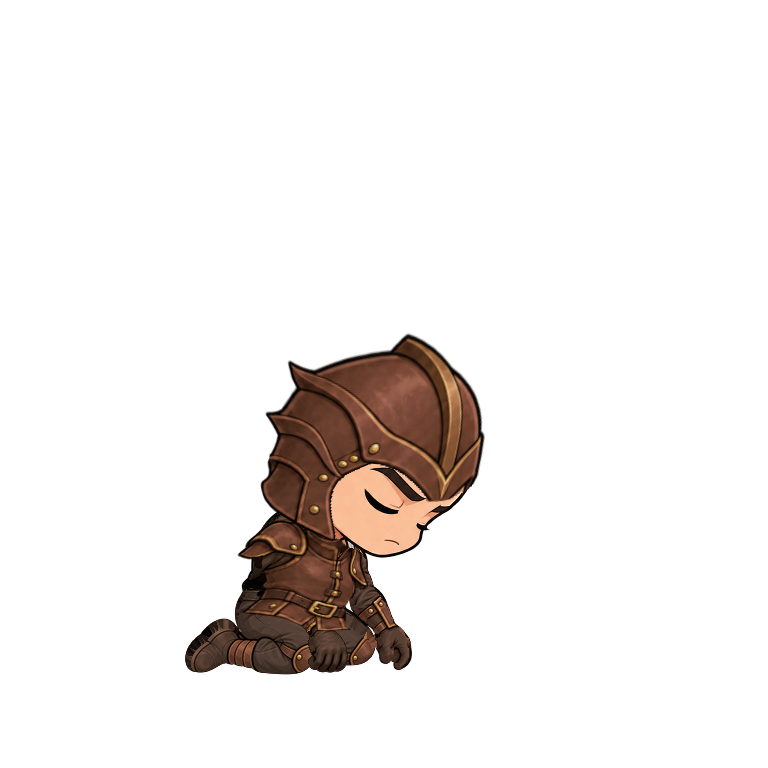
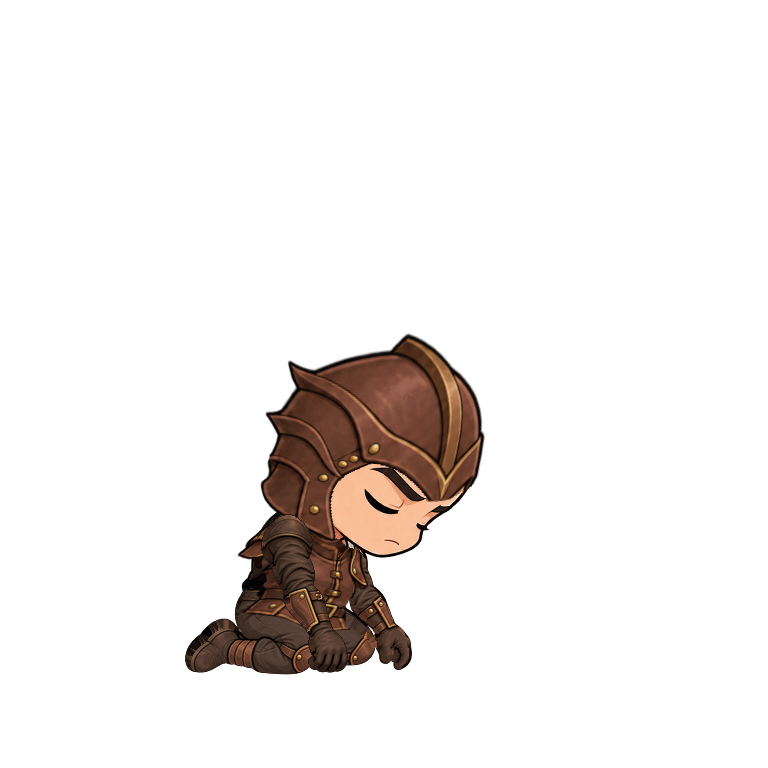
art(g16): bring Death_02 right arm in front of chest armor

Changed region(s): [[0.3438, 0.6562, 0.4375, 0.8438]]

diff --git a/docs/g16-leather-g2/g3/build_current_qa.py b/docs/g16-leather-g2/g3/build_current_qa.py
@@ -35,10 +35,14 @@ for f in frames:
     else:
         order=['coverage_underlay','legs_boots','arm_rear','arm_front','torso_armor','helmet','sword']
         hand[f]={'sourceLayer':'arm_rear','crop':[0,493+{'idle_01':0,'idle_02':-12,'idle_03':-4}[f],768,42],'status':'INHERITED_REVIEWED_IDLE_TRANSLATION'} if f.startswith('idle') else {'sourceLayer':'arm_rear','crop':None,'required':False,'status':'NOT_REQUIRED_EMPTY_DEATH_SWORD'}
+    if f=='death_02':
+        order=['coverage_underlay','legs_boots','arm_front','torso_armor','helmet','sword','arm_rear']
+        hand[f]['offlineOrder']='Owner: anatomical right arm in front of chest armor; separate DEV compatibility gate'
     for n in order:out=Image.alpha_composite(out,parts[n])
     if f.startswith('idle'):
         x,y,w,h=hand[f]['crop'];overlay=Image.new('RGBA',(768,768));overlay.paste(parts['arm_rear'].crop((x,y,x+w,y+h)),(x,y));out=Image.alpha_composite(out,overlay)
     orders[f]=order;comps[f]=out;out.save(Q/(f+'_composite.png'))
+    if f=='death_02':out.save(D/'qa/death_02.png')
 assert len(records)==56
 
 # Preserve every established Idle/Attack and the accepted Death_01 result.
@@ -99,7 +103,22 @@ for col,f in enumerate(frames[6:]):
         else:dr.text((col*400+20,y+90),'INTENTIONALLY TRANSPARENT',font=small,fill='black')
 parts_sheet.save(D/'DEATH_PARTS_SHEET.png')
 
-report={'status':'DEATH_01_APPROVED_DEATH_02_OWNER_REVIEW_PENDING','mainChecked':subprocess.check_output(['git','rev-parse','origin/main'],cwd=R,text=True).strip(),'risk':'MEDIUM isolated Death artwork','expectedPaths':56,'presentPaths':56,'death02CandidatePaths':7,'establishedReferencePaths':49,'finalInventoryPromoted':False,'G3Complete':False,'G4Ready':False,'baseSha256':basehash,'protectedExistingEquipmentPngCount':len(protected),'protectedExistingEquipmentByteIdentical':True,'death01ApprovedCompositePixelIdentical':True,'runtimeChanged':False,'productionManifestChanged':False,'runtimeOffsetBaked':False,'actualRuntimeRendererTested':False,'fullSetVisualAcceptance':False,'assemblyOrderByFrame':orders,'azureSources':azureledger,'handOcclusion':hand,'files':records,'remainingGate':'Owner acceptance of Death_02, then reconcile acceptance state and proceed G4 visual QA; separate DEV review for Attack hand crops/order.'}
+# Direct before/after study of the requested order correction, identical art.
+old=Image.open(R/'r2-upload/hero/v5/g2/base/death_02.png').convert('RGBA')
+for n in ['coverage_underlay','legs_boots','arm_rear','arm_front','torso_armor','helmet','sword']:
+    old=Image.alpha_composite(old,Image.open(source('death_02')/(n+'.png')).convert('RGBA'))
+new=comps['death_02'];diff=np.any(np.array(old)!=np.array(new),axis=2)
+arm=np.array(Image.open(source('death_02')/'arm_rear.png'))[:,:,3]>0
+assert not (diff & ~arm).any()
+for rec in records:
+    path=R/rec['path'];assert path.read_bytes()==gitbytes('2264d4117a711acaf453631fefd8d9cb36a34c16',path)
+order_sheet=Image.new('RGB',(1000,950),(220,225,233));dr=ImageDraw.Draw(order_sheet)
+for col,(label,im) in enumerate([('BEFORE / right arm behind armor',old),('AFTER / right arm in front of armor',new)]):
+    x=col*500;dr.text((x+12,14),label,font=small,fill='black')
+    order_sheet.paste(flat(im.crop((180,320,490,690))).resize((465,555),Image.Resampling.NEAREST),(x+17,50))
+    order_sheet.paste(flat(im.crop((240,505,365,605))).resize((450,360),Image.Resampling.NEAREST),(x+25,580))
+order_sheet.save(D/'DEATH_02_ARM_ORDER_COMPARISON.png')
+report={'status':'DEATH_01_APPROVED_DEATH_02_OWNER_REVIEW_PENDING','mainChecked':subprocess.check_output(['git','rev-parse','origin/main'],cwd=R,text=True).strip(),'risk':'LOW offline order-only correction','expectedPaths':56,'presentPaths':56,'death02CandidatePaths':7,'establishedReferencePaths':49,'finalInventoryPromoted':False,'G3Complete':False,'G4Ready':False,'baseSha256':basehash,'protectedExistingEquipmentPngCount':len(protected),'protectedExistingEquipmentByteIdentical':True,'all56EquipmentPngsByteIdenticalTo':'2264d4117a711acaf453631fefd8d9cb36a34c16','death02RightArmOrderCorrection':{'sourceLayer':'arm_rear','anatomy':'right arm','visibleOrder':'right arm in front of chest','changedCompositePixels':int(diff.sum()),'allChangedPixelsInsideRightArmAlpha':True,'runtimeCompatible':None,'runtimeCompatibilityStatus':'UNREVIEWED_SEPARATE_DEV_GATE'},'death01ApprovedCompositePixelIdentical':True,'runtimeChanged':False,'productionManifestChanged':False,'runtimeOffsetBaked':False,'actualRuntimeRendererTested':False,'fullSetVisualAcceptance':False,'assemblyOrderByFrame':orders,'azureSources':azureledger,'handOcclusion':hand,'files':records,'remainingGate':'Owner acceptance of Death_02, then reconcile acceptance state and proceed G4 visual QA; separate DEV review for Attack/Death_02 foreground arm order and Attack hand crops.'}
 (P/'VALIDATION.json').write_text(json.dumps(report,indent=2)+'\n')
 (D/'HAND_OCCLUSION.json').write_text(json.dumps({'frames':{k:v for k,v in hand.items() if k.startswith('death')},'attackStatus':'UNRESOLVED_SEPARATE_DEV_GATE','runtimeChanged':False},indent=2)+'\n')
 (P/'SHA256SUMS').write_text(''.join(r['sha256']+'  '+str(Path(r['path']).relative_to(P.relative_to(R)))+'\n' for r in records))

diff --git a/docs/g16-leather-g2/g3/death-review/build_death02.py b/docs/g16-leather-g2/g3/death-review/build_death02.py
@@ -70,7 +70,9 @@ ch[:,:,3]=np.array(ImageChops.subtract(Image.fromarray(ch[:,:,3]),mask));parts['
 
 E=P/'exports/death_02';E.mkdir(parents=True,exist_ok=True)
 for n,im in parts.items():im.save(E/(n+'.png'))
-order=['coverage_underlay','legs_boots','arm_rear','arm_front','torso_armor','helmet','sword']
+# Owner: anatomical right arm (arm_rear) must appear in front of chest armor.
+# Offline art assembly only; this does not change the runtime resolver.
+order=['coverage_underlay','legs_boots','arm_front','torso_armor','helmet','sword','arm_rear']
 out=base.copy()
 for n in order:out=Image.alpha_composite(out,parts[n])
 Q=P/'qa';Q.mkdir(exist_ok=True);out.save(Q/'death_02.png')

diff --git a/docs/g16-leather-g2/g3/PROJECT_LEAD_HANDOFF.md b/docs/g16-leather-g2/g3/PROJECT_LEAD_HANDOFF.md
@@ -2,9 +2,9 @@ G16 G3 — DEATH_01 APPROVED / DEATH_02 OWNER REVIEW PENDING
 
 Continue existing Draft PR #160 on art/g16-g3-leather-frames. Latest main checked 614d8e363efa074d257319f3e3578a56196c2a06. Risk MEDIUM.
 
-Death_01 accepted helmet [-2,-8] and torso [-2,-6] are baked into its existing seven exports; reassembly matches the accepted preview pixel-for-pixel. Death_02 now has seven candidate layers, preserving distinct canonical kneeling anatomy and original Base face. Review docs/g16-leather-g2/g3/death-review/DEATH_02_COMPARISON.png and DEATH_PARTS_SHEET.png. Inputs, bounded donors, exact ImageGen prompts, masks and placement guides are retained.
+Death_01 accepted helmet [-2,-8] and torso [-2,-6] are baked into its existing seven exports; reassembly matches the accepted preview pixel-for-pixel. Death_02 now has seven candidate layers, preserving distinct canonical kneeling anatomy and original Base face. Latest Owner correction puts Death_02 anatomical right arm (arm_rear) in front of torso; all 56 PNG bytes and accepted Death_01 are unchanged. Review docs/g16-leather-g2/g3/death-review/DEATH_02_ARM_ORDER_COMPARISON.png, DEATH_02_COMPARISON.png and DEATH_PARTS_SHEET.png. Inputs, bounded donors, exact ImageGen prompts, masks and placement guides are retained.
 
-56/56 declared PNG paths pass dimension/RGBA/alpha/origin/SHA checks, but 7 Death_02 paths remain unaccepted candidates. All 8 canonical Bases, 21 approved Attack and 28 protected Idle checkpoints are unchanged. Idle/Attack/Death sheets, GIFs and full-set contact sheet are refreshed. No G3-complete / G4-accepted claim or final inventory promotion. Separate runtime concern: Attack per-pose hand crops/order still require DEV review; empty Death swords need no hand crop.
+56/56 declared PNG paths pass dimension/RGBA/alpha/origin/SHA checks, but 7 Death_02 paths remain unaccepted candidates. All 8 canonical Bases, 21 approved Attack and 28 protected Idle checkpoints are unchanged. Idle/Attack/Death sheets, GIFs and full-set contact sheet are refreshed. No G3-complete / G4-accepted claim or final inventory promotion. Separate runtime concern: Attack per-pose hand crops/order and Death_02 foreground arm order still require DEV review; empty Death swords need no hand crop.
 
 Owner-requested cleanup removes superseded checkpoint READMEs/handoffs/stale ledgers and Death_01 placement trials, preserving current approval evidence, contracts, source masters and actual approved exports. See CLEANUP.json. No production manifest, R2, runtime, merge or deployment change.
 

diff --git a/docs/g16-leather-g2/g3/README.md b/docs/g16-leather-g2/g3/README.md
@@ -23,6 +23,6 @@ All **56 declared paths are present**, consisting of 49 established reference pa
 
 All eight original Bases, 21 Attack PNGs and 28 protected G2/G3 Idle checkpoints remain byte-identical. All current exports are 768×768 RGBA at origin [0,0], no edge alpha/clipping, no baked runtime Y=84. Underlay stays empty; Death sword stays empty with explicit emptyReason.
 
-Idle uses inherited reviewed hand crops. Attack uses the Owner-approved offline order; runtime order/crop compatibility remains a separate DEV gate. Empty Death weapons need no post-sword hand crop. All-frame sheets/GIFs are offline artwork evidence, not actual renderer regression tests. No production manifest, runtime, Base/Azure/Skeleton, R2, merge, gameplay, API/Worker/D1 or deployment change.
+Idle uses inherited reviewed hand crops. Attack uses the Owner-approved offline order. Death_02 now also puts the anatomical right arm (arm_rear) in front of the torso, per Owner correction; Death_01 stays unchanged. Attack/Death_02 order and Attack crop compatibility remain a separate DEV gate. Empty Death weapons need no post-sword hand crop. All-frame sheets/GIFs are offline artwork evidence, not actual renderer regression tests. No production manifest, runtime, Base/Azure/Skeleton, R2, merge, gameplay, API/Worker/D1 or deployment change.
 
 Rebuild Death_01: `python docs/g16-leather-g2/g3/death-review/build.py`. Rebuild Death_02: `python docs/g16-leather-g2/g3/death-review/build_death02.py` (do not use --prepare unless updating pose inputs). Refresh current inventory/sheets/GIFs: `python docs/g16-leather-g2/g3/build_current_qa.py`. Verify the final-path ledger with `sha256sum -c SHA256SUMS` from this folder. Older nested scripts/images are source-authoring checkpoints only; their removed status reports must not be treated as current gates.

diff --git a/docs/g16-leather-g2/g3/death-review/README.md b/docs/g16-leather-g2/g3/death-review/README.md
@@ -14,4 +14,4 @@ Canonical bowed/kneeling anatomy and original face/expression are preserved. Hel
 
 Use `build.py` for accepted Death_01, `build_death02.py` for the distinct Death_02 (never a translation/rotation of Death_01), and ../build_current_qa.py for current validation, comparison sheets and animation previews. `DEATH_02_PLACEMENT.json` records the per-part guides and masks; `masters/death_02/PROMPTS.json` records exact built-in ImageGen prompts. Retained masters/ inputs, complete donors and masks are reusable source material, not additional exported paths.
 
-Death_02 still needs Owner visual acceptance. Do not infer G3 completion, G4 visual approval or runtime/production readiness from file presence. The current runtime-order study uses Base → legs → both arms → torso → helmet (empty paths omitted); no new runtime/profile change is made or approved. Death weapons need no post-sword crop. Existing Attack order and crop review remains separate. No R2, production manifest integration, merge or deploy.
+Death_02 still needs Owner visual acceptance. Do not infer G3 completion, G4 visual approval or runtime/production readiness from file presence. Death_01 retains its accepted Base → legs → both arms → torso → helmet assembly. Owner corrected Death_02 to Base → legs → left arm → torso → helmet → right arm (empty paths omitted), bringing the anatomical right arm (arm_rear) in front of the armor. See DEATH_02_ARM_ORDER_COMPARISON.png. All 56 equipment PNG bytes are unchanged by this order-only correction. This foreground arm order still needs separate DEV compatibility review; no runtime/profile source is changed. Death weapons need no post-sword crop. Existing Attack order and crop review remains separate. No R2, production manifest integration, merge or deploy.
